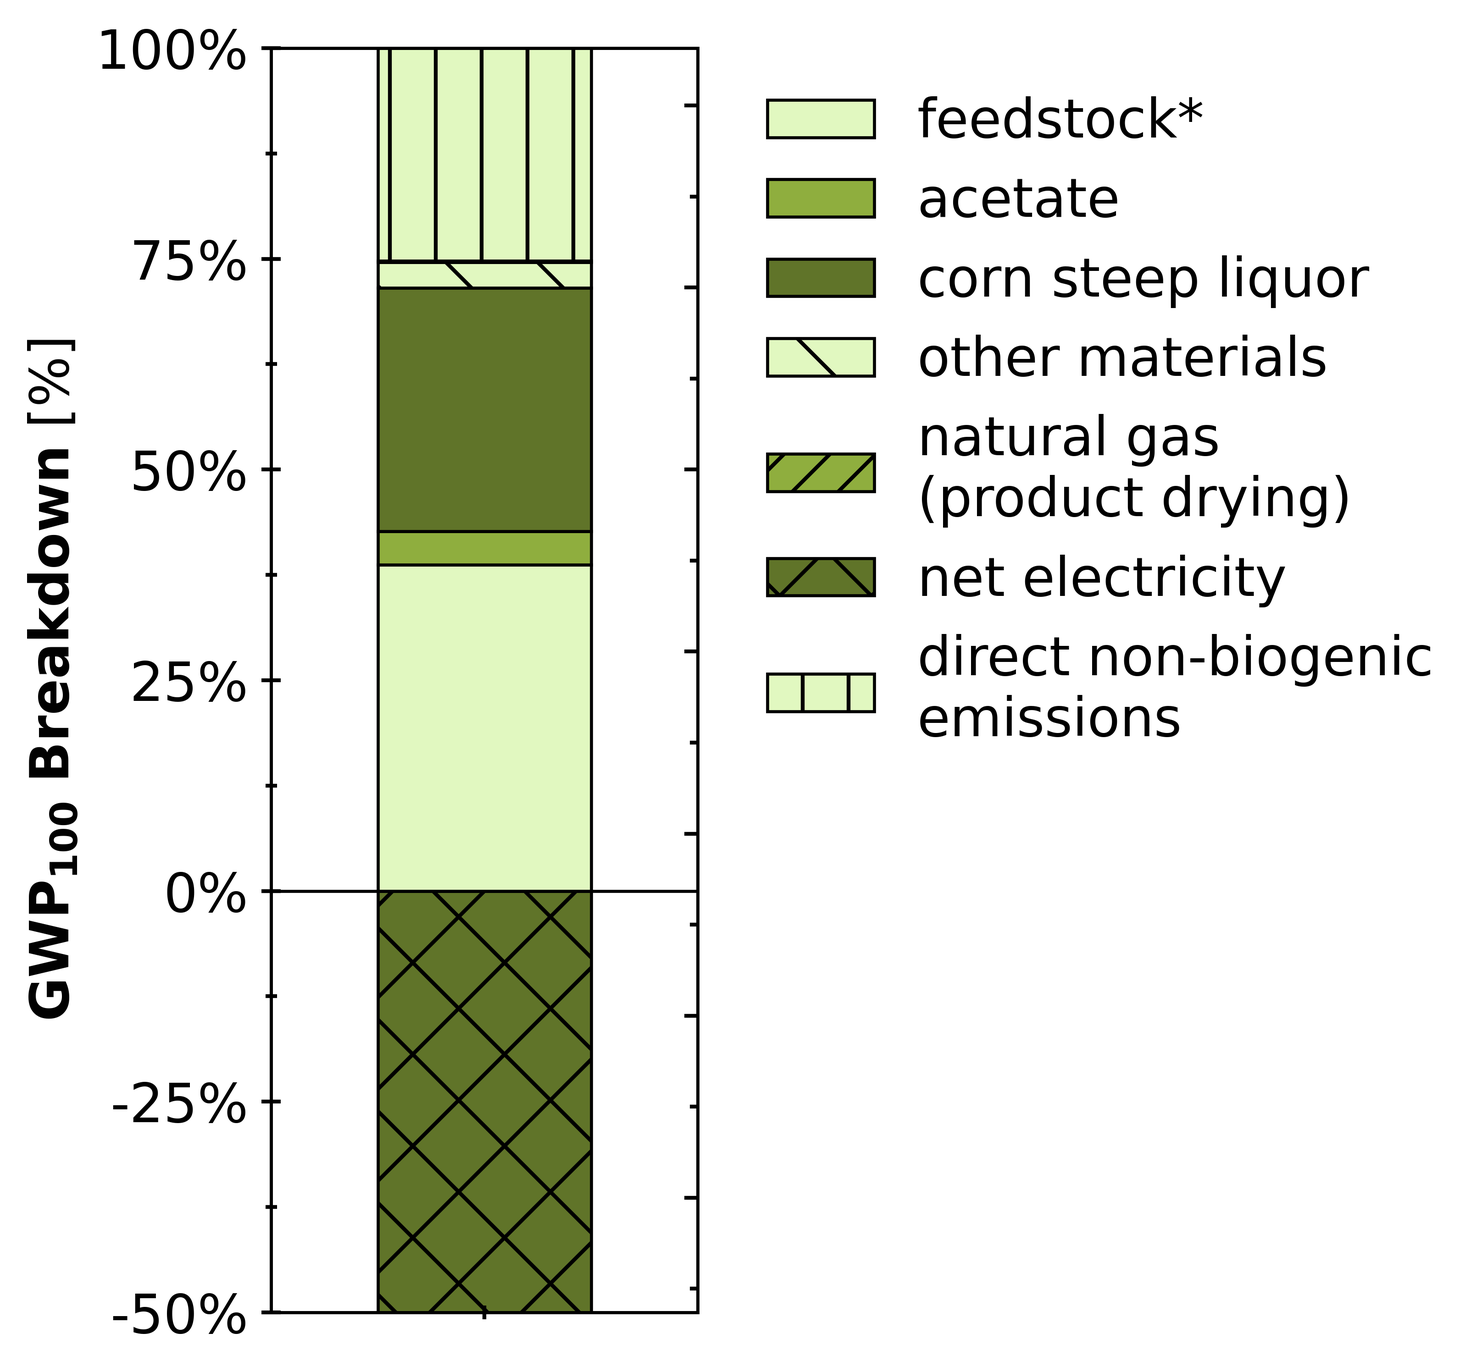
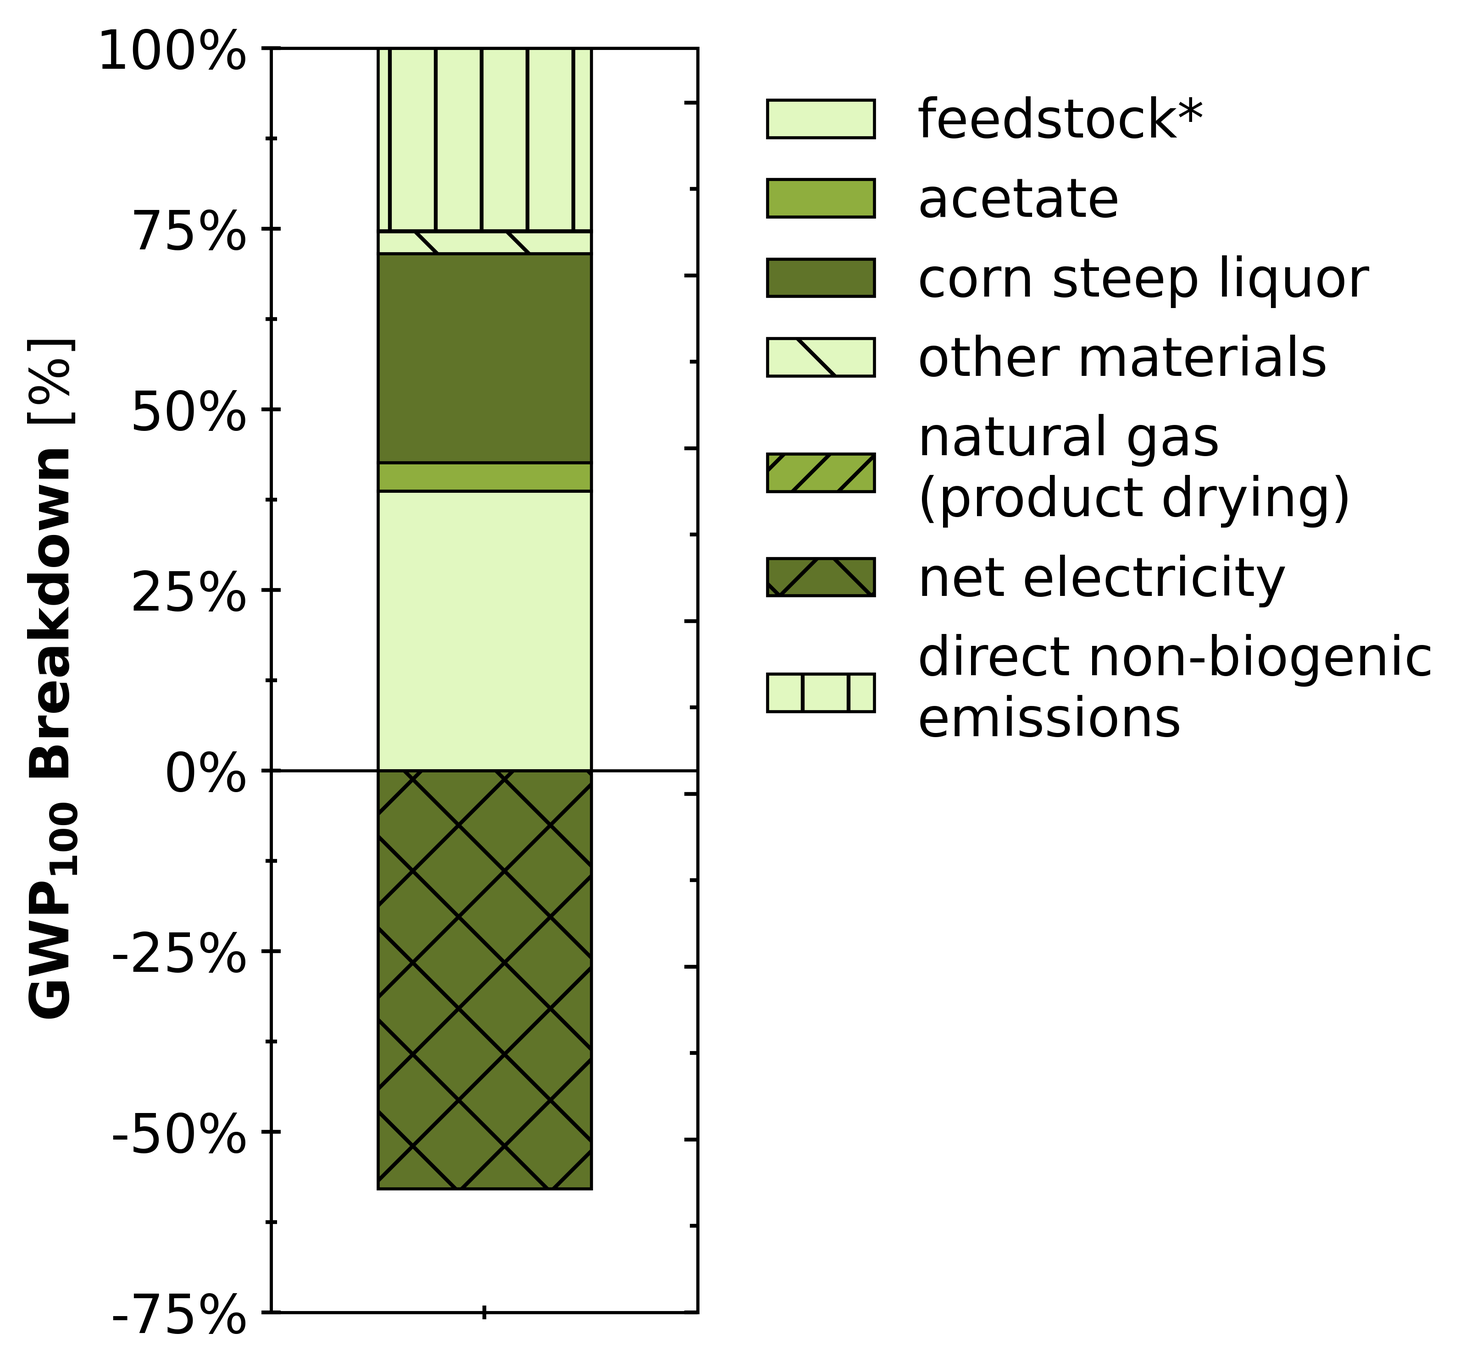
updates to TAL analyses and production capacities

diff --git a/biorefineries/TAL/analyses/decarboxylation/decarboxylation_TALconversion_PDreq_PDprice.py b/biorefineries/TAL/analyses/decarboxylation/decarboxylation_TALconversion_PDreq_PDprice.py
@@ -9,6 +9,9 @@ Created on Fri Jul 31 13:57:09 2020
 from warnings import filterwarnings
 filterwarnings('ignore')
 
+import contourplots
+get_rounded_str = contourplots.utils.get_rounded_str
+
 from biosteam.utils import  colors
 import numpy as np
 
@@ -36,12 +39,16 @@ ig = np.seterr(invalid='ignore')
 
 product = TAL_product
 
+
+# search page for high end: https://www.alibaba.com/trade/search?spm=a2700.galleryofferlist.0.0.2a995827YzqZVg&fsb=y&IndexArea=product_en&assessmentCompany=true&keywords=590-00-1+sorbate&productTag=1200000228&ta=y&tab=all&
 SA_market_range=np.array([
-                          6.45, # 2022 North America price from https://www.chemanalyst.com/Pricing-data/sorbic-acid-1402
-                          7.43, # 2019 North America price from Sorbic Acid Market, Transparency Market Research
+                          6.74, # 2019 global high end from Sorbic Acid Market, Transparency Market Research
+                          6.50 * 1.3397087, # $6.50/kg-potassium-sorbate from https://www.alibaba.com/product-detail/Lifecare-Supply-Potassium-Sorbate-High-Quality_1600897125355.html?spm=a2700.galleryofferlist.p_offer.d_title.1bc15827eAs1TL&s=p
                           ]) 
 
 TAL_maximum_viable_market_range = SA_market_range / theoretical_max_g_TAL_per_g_SA
+
+# TAL_maximum_viable_market_range = np.array([5.99, 7.74])
 
 s, u = flowsheet.stream, flowsheet.unit
 
@@ -128,18 +135,22 @@ TAL_metrics = [get_product_MPSP, lambda: TAL_lca.GWP, lambda: TAL_lca.FEC,
 
 # %% Generate 3-specification meshgrid and set specification loading functions
 
-steps = (30, 30, 10)
+steps = (50, 50, 3)
 
 # Yield, titer, productivity (rate)
 spec_1 = TAL_decarb_convs = np.linspace(0., 0.5, steps[0]) # yield
 spec_2 = PD_reqs = np.linspace(0., 2., steps[1]) # titer
 
 
-spec_3 = PD_prices =\
-    np.array([Acetylacetone_fresh.price])
+# spec_3 = PD_prices =\
+#     np.array([Acetylacetone_fresh.price])
     
+# spec_3 = PD_prices =\
+#     np.linspace(1e-5, 5., steps[2])
+
 spec_3 = PD_prices =\
-    np.linspace(1e-5, 5., steps[2])
+    np.array([Acetylacetone_fresh.price/5., Acetylacetone_fresh.price, Acetylacetone_fresh.price*5.])
+
 
 #%% Plot stuff
 
@@ -156,7 +167,7 @@ y_ticks = [0., 0.5, 1., 1.5, 2.]
 
 z_label = r"$\bfAcetylacetone$"  +" "+ r"$\bfPrice$"# # title of the z axis
 z_units =  r"$\mathrm{\$} \cdot \mathrm{kg}^{-1}$"
-z_ticks = [0, 1, 2, 3, 4, 5]
+z_ticks = [0, 2, 4, 6, 8, 10]
 
 # Metrics
 MPSP_w_label = r"$\bfMPSP$" # title of the color axis
@@ -370,7 +381,6 @@ print(f'Max HXN Q bal error was {round(max_HXN_qbal_percent_error, 3)} %.')
 
 #%% Plot metrics vs titer, yield, and productivity
 
-import contourplots
 chdir(TAL_results_filepath)
 
 results_metric_1 = np.array(results_metric_1)
@@ -468,9 +478,9 @@ print('\nCreating and saving contour plots ...\n')
 #%% MPSP
 
 # MPSP_w_levels, MPSP_w_ticks, MPSP_cbar_ticks = get_contour_info_from_metric_data(results_metric_1, lb=3)
-MPSP_w_levels = np.arange(2, 8.1, 0.2)
-MPSP_cbar_ticks = np.arange(2, 8.1, 1.)
-MPSP_w_ticks = [ 4, 4.5, 5, 8]
+MPSP_w_levels = np.arange(2, 10.1, 0.1)
+MPSP_cbar_ticks = np.arange(2, 10.1, 1.)
+MPSP_w_ticks = [3.25, 3.5, 3.75, 4, 4.5, 5, 10]
 # MPSP_w_levels = np.arange(0., 15.5, 0.5)
 
 contourplots.animated_contourplot(w_data_vs_x_y_at_multiple_z=results_metric_1, # shape = z * x * y # values of the metric you want to plot on the color axis; e.g., MPSP
@@ -492,7 +502,7 @@ contourplots.animated_contourplot(w_data_vs_x_y_at_multiple_z=results_metric_1, 
                                 z_units=z_units,
                                 w_units=MPSP_units,
                                 # fmt_clabel=lambda cvalue: r"$\mathrm{\$}$"+" {:.1f} ".format(cvalue)+r"$\cdot\mathrm{kg}^{-1}$", # format of contour labels
-                                fmt_clabel = lambda cvalue:  f"{round(cvalue,1)}",
+                                fmt_clabel = lambda cvalue:  get_rounded_str(cvalue, 3),
                                 cmap=CABBI_green_colormap(), # can use 'viridis' or other default matplotlib colormaps
                                 cmap_over_color = colors.grey_dark.shade(8).RGBn,
                                 extend_cmap='max',
@@ -516,8 +526,8 @@ contourplots.animated_contourplot(w_data_vs_x_y_at_multiple_z=results_metric_1, 
 #%% GWP
 
 # GWP_w_levels, GWP_w_ticks, GWP_cbar_ticks = get_contour_info_from_metric_data(results_metric_2,)
-GWP_w_levels = np.arange(0, 20, 0.4)
-GWP_cbar_ticks = np.arange(0, 20, 2.)
+GWP_w_levels = np.arange(0, 20.3, 0.4)
+GWP_cbar_ticks = np.arange(0, 20.3, 2.)
 GWP_w_ticks = [3, 4, 6, 10, 14, 20]
 contourplots.animated_contourplot(w_data_vs_x_y_at_multiple_z=results_metric_2, # shape = z * x * y # values of the metric you want to plot on the color axis; e.g., GWP
                                 x_data=100*TAL_decarb_convs, # x axis values
@@ -561,9 +571,9 @@ contourplots.animated_contourplot(w_data_vs_x_y_at_multiple_z=results_metric_2, 
 #%% FEC
 
 # FEC_w_levels, FEC_w_ticks, FEC_cbar_ticks = get_contour_info_from_metric_data(results_metric_3,)
-FEC_w_levels = np.arange(-40, 61, 2.)
-FEC_cbar_ticks = np.arange(-40, 61, 10)
-FEC_w_ticks = [-30, -20, 0, 25, 50]
+FEC_w_levels = np.arange(-100, 101, 2.)
+FEC_cbar_ticks = np.arange(-100, 101, 25)
+FEC_w_ticks = [-100, -25, 0, 25, 50, 75, 100]
 contourplots.animated_contourplot(w_data_vs_x_y_at_multiple_z=results_metric_3, # shape = z * x * y # values of the metric you want to plot on the color axis; e.g., FEC
                                 x_data=100*TAL_decarb_convs, # x axis values
                                 y_data=PD_reqs, # y axis values
@@ -583,7 +593,7 @@ contourplots.animated_contourplot(w_data_vs_x_y_at_multiple_z=results_metric_3, 
                                 w_units=FEC_units,
                                 # fmt_clabel=lambda cvalue: r"$\mathrm{\$}$"+" {:.1f} ".format(cvalue)+r"$\cdot\mathrm{kg}^{-1}$", # format of contour labels
                                 fmt_clabel = lambda cvalue:  f"{round(cvalue,1)}",
-                                cmap=CABBI_green_colormap(), # can use 'viridis' or other default matplotlib colormaps
+                                cmap=CABBI_green_colormap(120), # can use 'viridis' or other default matplotlib colormaps
                                 cmap_over_color = colors.grey_dark.shade(8).RGBn,
                                 extend_cmap='max',
                                 cbar_ticks=FEC_cbar_ticks,

diff --git a/biorefineries/TAL/analyses/fermentation/TRY_analysis_TAL.py b/biorefineries/TAL/analyses/fermentation/TRY_analysis_TAL.py
@@ -9,6 +9,9 @@ Created on Fri Jul 31 13:57:09 2020
 from warnings import filterwarnings
 filterwarnings('ignore')
 
+import contourplots
+get_rounded_str = contourplots.utils.get_rounded_str
+
 from biosteam.utils import  colors
 import numpy as np
 
@@ -36,14 +39,17 @@ ig = np.seterr(invalid='ignore')
 
 product = TAL_product
 
+# search page for high end: https://www.alibaba.com/trade/search?spm=a2700.galleryofferlist.0.0.2a995827YzqZVg&fsb=y&IndexArea=product_en&assessmentCompany=true&keywords=590-00-1+sorbate&productTag=1200000228&ta=y&tab=all&
 SA_market_range=np.array([
-                          6.45, # 2022 North America price from https://www.chemanalyst.com/Pricing-data/sorbic-acid-1402
-                          7.43, # 2019 North America price from Sorbic Acid Market, Transparency Market Research
+                          6.74, # 2019 global high end from Sorbic Acid Market, Transparency Market Research
+                          6.50 * 1.3397087, # $6.50/kg-potassium-sorbate from https://www.alibaba.com/product-detail/Lifecare-Supply-Potassium-Sorbate-High-Quality_1600897125355.html?spm=a2700.galleryofferlist.p_offer.d_title.1bc15827eAs1TL&s=p
                           ]) 
 
 TAL_maximum_viable_market_range = SA_market_range / theoretical_max_g_TAL_per_g_SA
 
-    
+# TAL_maximum_viable_market_range = np.array([5.99, 7.74])
+
+
 #%% Filepaths
 TAL_filepath = TAL.__file__.replace('\\__init__.py', '')
 
@@ -110,8 +116,13 @@ get_TAL_sugars_conc = lambda: sum(R302.outs[0].imass['Glucose', 'Xylose'])/R302.
 
 get_TAL_inhibitors_conc = lambda: 1000*sum(R302.outs[0].imass['AceticAcid', 'Furfural', 'HMF'])/R302.outs[0].F_vol
 
-TAL_metrics = [get_product_MPSP, lambda: TAL_lca.GWP, lambda: TAL_lca.FEC, 
-               get_TAL_AOC, get_TAL_FCI, get_product_purity]
+TAL_metrics = [get_product_MPSP, 
+               # lambda: TAL_lca.GWP
+               lambda: TAL_lca.GWP - TAL_lca.net_electricity_GWP, 
+               # lambda: TAL_lca.FEC, 
+               lambda: TAL_lca.FEC - TAL_lca.net_electricity_FEC,
+               get_TAL_AOC, get_TAL_FCI, 
+               get_product_purity]
 
 # %% Generate 3-specification meshgrid and set specification loading functions
 
@@ -353,7 +364,6 @@ print(f'Max HXN Q bal error was {round(max_HXN_qbal_percent_error, 3)} %.')
 
 #%% Plot metrics vs titer, yield, and productivity
 
-import contourplots
 chdir(TAL_results_filepath)
 
 results_metric_1 = np.array(results_metric_1)
@@ -453,7 +463,7 @@ print('\nCreating and saving contour plots ...\n')
 # MPSP_w_levels, MPSP_w_ticks, MPSP_cbar_ticks = get_contour_info_from_metric_data(results_metric_1, lb=3)
 MPSP_w_levels = np.arange(2, 10.1, 0.1)
 MPSP_cbar_ticks = np.arange(2, 10.1, 1.)
-MPSP_w_ticks = [3.5, 4, 4.5, 5, 10]
+MPSP_w_ticks = [3., 3.5, 3.75, 4, 4.5, 5, 10]
 # MPSP_w_levels = np.arange(0., 15.5, 0.5)
 
 contourplots.animated_contourplot(w_data_vs_x_y_at_multiple_z=results_metric_1, # shape = z * x * y # values of the metric you want to plot on the color axis; e.g., MPSP
@@ -475,7 +485,7 @@ contourplots.animated_contourplot(w_data_vs_x_y_at_multiple_z=results_metric_1, 
                                 z_units=z_units,
                                 w_units=MPSP_units,
                                 # fmt_clabel=lambda cvalue: r"$\mathrm{\$}$"+" {:.1f} ".format(cvalue)+r"$\cdot\mathrm{kg}^{-1}$", # format of contour labels
-                                fmt_clabel = lambda cvalue:  f"{round(cvalue,1)}",
+                                fmt_clabel = lambda cvalue: get_rounded_str(cvalue, 3),
                                 cmap=CABBI_green_colormap(), # can use 'viridis' or other default matplotlib colormaps
                                 cmap_over_color = colors.grey_dark.shade(8).RGBn,
                                 extend_cmap='max',
@@ -498,8 +508,8 @@ contourplots.animated_contourplot(w_data_vs_x_y_at_multiple_z=results_metric_1, 
 #%% GWP
 
 # GWP_w_levels, GWP_w_ticks, GWP_cbar_ticks = get_contour_info_from_metric_data(results_metric_2,)
-GWP_w_levels = np.arange(0, 20, 0.4)
-GWP_cbar_ticks = np.arange(0, 20, 2.)
+GWP_w_levels = np.arange(0, 20.1, 0.4)
+GWP_cbar_ticks = np.arange(0, 20.1, 2.)
 GWP_w_ticks = [2, 3, 4, 6, 10, 14, 20]
 contourplots.animated_contourplot(w_data_vs_x_y_at_multiple_z=results_metric_2, # shape = z * x * y # values of the metric you want to plot on the color axis; e.g., GWP
                                 x_data=100*yields, # x axis values
@@ -542,9 +552,9 @@ contourplots.animated_contourplot(w_data_vs_x_y_at_multiple_z=results_metric_2, 
 #%% FEC
 
 # FEC_w_levels, FEC_w_ticks, FEC_cbar_ticks = get_contour_info_from_metric_data(results_metric_3,)
-FEC_w_levels = np.arange(-40, 61, 2.)
-FEC_cbar_ticks = np.arange(-40, 61, 10)
-FEC_w_ticks = [-30, -20, 0, 25, 50]
+FEC_w_levels = np.arange(-300, 101, 10)
+FEC_cbar_ticks = np.arange(-300, 101, 20)
+FEC_w_ticks = [-100, -50, 0, 50, 100]
 contourplots.animated_contourplot(w_data_vs_x_y_at_multiple_z=results_metric_3, # shape = z * x * y # values of the metric you want to plot on the color axis; e.g., FEC
                                 x_data=100*yields, # x axis values
                                 y_data=titers, # y axis values
@@ -564,7 +574,7 @@ contourplots.animated_contourplot(w_data_vs_x_y_at_multiple_z=results_metric_3, 
                                 w_units=FEC_units,
                                 # fmt_clabel=lambda cvalue: r"$\mathrm{\$}$"+" {:.1f} ".format(cvalue)+r"$\cdot\mathrm{kg}^{-1}$", # format of contour labels
                                 fmt_clabel = lambda cvalue:  f"{round(cvalue,1)}",
-                                cmap=CABBI_green_colormap(), # can use 'viridis' or other default matplotlib colormaps
+                                cmap=CABBI_green_colormap(200), # can use 'viridis' or other default matplotlib colormaps
                                 cmap_over_color = colors.grey_dark.shade(8).RGBn,
                                 extend_cmap='max',
                                 cbar_ticks=FEC_cbar_ticks,

diff --git a/biorefineries/TAL/systems/system_SA_solubility_exploit_ethanol_sugarcane.py b/biorefineries/TAL/systems/system_SA_solubility_exploit_ethanol_sugarcane.py
@@ -475,9 +475,10 @@ g_sodium_acetate_to_g_acetic_acid = TAL_chemicals.AceticAcid.MW/TAL_chemicals.So
 fermentation_yield_baseline = 35.9/(180.*theoretical_max_g_TAL_per_g_glucose+13.7*g_sodium_acetate_to_g_acetic_acid*theoretical_max_g_TAL_per_g_acetic_acid) # from Markham et al. 2018; 35.9 g-TAL/L from 180 g-glucose/L and 13.7 g-sodium_acetate/L
 # fermentation_yield_upper_limit = 0.203/theoretical_max_g_TAL_per_g_glucose
 
-# desired_annual_production = (27_296/2) * theoretical_max_g_TAL_per_g_SA # pure metric ton / y # satisfy 50% of 2019 North American demand for sobic acid with 100% TAL->sorbic acid conversion
 
-desired_annual_production = 27_296/2 # pure metric ton / y # satisfy 50% of 2019 North American demand for sobic acid
+desired_annual_production = (23_802/2) * TAL_chemicals.PotassiumSorbate.MW/TAL_chemicals.SorbicAcid.MW # pure metric ton / y # satisfy 50% of 2019 US demand for sobic acid
+
+# desired_annual_production = (23_802) * TAL_chemicals.PotassiumSorbate.MW/TAL_chemicals.SorbicAcid.MW # pure metric ton / y # satisfy 100% of 2019 US demand for sobic acid
 
 spec = ProcessSpecification(
     evaporator = u.F301,
@@ -576,18 +577,18 @@ def simulate_and_print():
     # set_production_capacity(25000, 'analytical')
     print('\n---------- Simulation Results ----------')
     MPSP_KSA = get_KSA_MPSP()
-    print(f'MPSP is ${MPSP_KSA:.3f}/kg TAL')
+    print(f'MPSP is ${MPSP_KSA:.3f}/kg PotassiumSorbate')
     print(f'.... or ${MPSP_KSA*per_kg_KSA_to_per_kg_SA:.3f}/kg SorbicAcid')
     GWP_KSA, FEC_KSA = TAL_lca.GWP, TAL_lca.FEC
-    print(f'GWP-100a is {GWP_KSA:.3f} kg CO2-eq/kg TAL')
+    print(f'GWP-100a is {GWP_KSA:.3f} kg CO2-eq/kg PotassiumSorbate')
     print(f'........ or {GWP_KSA*per_kg_KSA_to_per_kg_SA:.3f} kg CO2-eq/kg SorbicAcid')
-    print(f'FEC is {FEC_KSA:.3f} MJ/kg TAL')
+    print(f'FEC is {FEC_KSA:.3f} MJ/kg PotassiumSorbate')
     print(f'... or {FEC_KSA*per_kg_KSA_to_per_kg_SA:.3f} MJ/kg SorbicAcid')
     GWP_KSA_without_electricity_credit, FEC_KSA_without_electricity_credit =\
         GWP_KSA - TAL_lca.net_electricity_GWP, FEC_KSA - TAL_lca.net_electricity_FEC
-    print(f'GWP-100a without electricity credit is {GWP_KSA_without_electricity_credit:.3f} kg CO2-eq/kg TAL')
+    print(f'GWP-100a without electricity credit is {GWP_KSA_without_electricity_credit:.3f} kg CO2-eq/kg PotassiumSorbate')
     # print(f'................................... or {GWP_KSA_without_electricity_credit*per_kg_KSA_to_per_kg_SA:.3f} kg CO2-eq/kg SorbicAcid')
-    print(f'FEC without electricity credit is {FEC_KSA_without_electricity_credit:.3f} MJ/kg TAL')
+    print(f'FEC without electricity credit is {FEC_KSA_without_electricity_credit:.3f} MJ/kg PotassiumSorbate')
     print(f'.............................. or {FEC_KSA_without_electricity_credit*per_kg_KSA_to_per_kg_SA:.3f} MJ/kg SorbicAcid')
     # print(f'FEC is {get_FEC():.2f} MJ/kg TAL or {get_FEC()/TAL_LHV:.2f} MJ/MJ TAL')
     # print(f'SPED is {get_SPED():.2f} MJ/kg TAL or {get_SPED()/TAL_LHV:.2f} MJ/MJ TAL')

diff --git a/biorefineries/TAL/analyses/full/1_uncertainties_TAL_solubility_exploit.py b/biorefineries/TAL/analyses/full/1_uncertainties_TAL_solubility_exploit.py
@@ -298,7 +298,18 @@ file_to_save = TAL_results_filepath+\
 MPSP_uncertainty = [results_dict['Uncertainty']['MPSP'][mode]
                     for mode in modes
                     ]
-market_range = [5.735, 6.606]
+
+# # search page for high end: https://www.alibaba.com/trade/search?spm=a2700.galleryofferlist.0.0.2a995827YzqZVg&fsb=y&IndexArea=product_en&assessmentCompany=true&keywords=590-00-1+sorbate&productTag=1200000228&ta=y&tab=all&
+# SA_market_range=np.array([
+#                           6.74, # 2019 global high end from Sorbic Acid Market, Transparency Market Research
+#                           6.50 * 1.3397087, # $6.50/kg-potassium-sorbate from https://www.alibaba.com/product-detail/Lifecare-Supply-Potassium-Sorbate-High-Quality_1600897125355.html?spm=a2700.galleryofferlist.p_offer.d_title.1bc15827eAs1TL&s=p
+#                           ]) 
+
+# TAL_maximum_viable_market_range = SA_market_range / theoretical_max_g_TAL_per_g_SA
+
+market_range = np.array([5.99, 7.74])
+
+
 # biobased_lit_MPSP_range = (1.08, 3.63)
 contourplots.box_and_whiskers_plot(uncertainty_data=MPSP_uncertainty, 
                           baseline_values=[results_dict['Baseline']['MPSP'][mode] for mode in modes],
@@ -404,7 +415,7 @@ contourplots.box_and_whiskers_plot(uncertainty_data=FEC_uncertainty,
                           x_tick_wrap_width=6,
                           y_label=r"$\bfFEC$",
                           y_units=FEC_units,
-                          y_ticks=np.arange(-50, 60., 10.),
+                          y_ticks=np.arange(-80, 21, 10),
                           save_file=True,
                           # fig_height=5.5,
                           # fig_width = 3.,
@@ -512,7 +523,7 @@ df_GWP_breakdown = pd.DataFrame(GWP_breakdown_list,
 df_GWP_breakdown = df_GWP_breakdown.rename(columns={0: ''})
 contourplots.stacked_bar_plot(dataframe=df_GWP_breakdown, 
                   # y_ticks=[-60, -40, -20, 0, 20, 40, 60, 80, 100], 
-                  y_ticks = [-50, -25, 0, 25, 50, 75, 100],
+                  y_ticks = [-75, -50, -25, 0, 25, 50, 75, 100],
                   # y_ticks=[-400, -300, -200, -100, 0, 100, 200, 300, 400], 
                   # y_ticks = []
                   # y_label=r"$\bfGWP-100a $" +" "+ r"$\bfBreakdown$",  
@@ -543,7 +554,7 @@ df_FEC_breakdown = pd.DataFrame(FEC_breakdown_list,
 df_FEC_breakdown = df_FEC_breakdown.rename(columns={0: ''})
 contourplots.stacked_bar_plot(dataframe=df_FEC_breakdown, 
                   # y_ticks=[-200, -175, -150, -125, -100, -75, -50, -25, 0, 25, 50, 75, 100, 125, 150, 175], 
-                   y_ticks=[-125, -100, -75, -50, -25, 0, 25, 50, 75, 100], 
+                   y_ticks=[-150, -125, -100, -75, -50, -25, 0, 25, 50, 75, 100], 
                   # y_ticks=[-150, -100, -50, 0, 50, 100], 
                   y_label=r"$\bfFEC$" +" "+ r"$\bfBreakdown$", 
                   y_units = "%", 

diff --git a/biorefineries/TAL/systems/system_TAL_solubility_exploit_ethanol_sugarcane.py b/biorefineries/TAL/systems/system_TAL_solubility_exploit_ethanol_sugarcane.py
@@ -475,7 +475,9 @@ g_sodium_acetate_to_g_acetic_acid = TAL_chemicals.AceticAcid.MW/TAL_chemicals.So
 fermentation_yield_baseline = 35.9/(180.*theoretical_max_g_TAL_per_g_glucose+13.7*g_sodium_acetate_to_g_acetic_acid*theoretical_max_g_TAL_per_g_acetic_acid) # from Markham et al. 2018; 35.9 g-TAL/L from 180 g-glucose/L and 13.7 g-sodium_acetate/L
 # fermentation_yield_upper_limit = 0.203/theoretical_max_g_TAL_per_g_glucose
 
-desired_annual_production = (27_296/2) * theoretical_max_g_TAL_per_g_SA # pure metric ton / y # satisfy 50% of 2019 North American demand for sobic acid with 100% TAL->sorbic acid conversion
+desired_annual_production = (23_802/2) * theoretical_max_g_TAL_per_g_SA # pure metric ton / y # satisfy 50% of 2019 US demand for sobic acid with 100% TAL->sorbic acid conversion
+
+# desired_annual_production = (23_802) * theoretical_max_g_TAL_per_g_SA # pure metric ton / y # satisfy 100% of 2019 US demand for sobic acid with 100% TAL->sorbic acid conversion
 
 spec = ProcessSpecification(
     evaporator = u.F301,
@@ -595,9 +597,12 @@ def simulate_and_print():
 # TAL_sys.simulate()
 get_TAL_MPSP()
 
-#%% Misc. adsorption stuff
-# u.AC401.cycle_time = 4.
-# u.AC401.drying_time = 0.5 #!!! Drying time is updated to this value (overwritten the value passed during initialization)
+#%% Misc.
+
+def get_non_gaseous_waste_carbon_as_fraction_of_TAL_GWP100():
+    return sum([i.get_atomic_flow('C') for i in TAL_sys.products if i.F_mol 
+                and ('l' in i.phases or 's' in i.phases or i.phase=='l') 
+                and (not i==TAL_product)])/TAL_product.imass['TAL']/TAL_lca.GWP
 
 #%% Load specifications
 spec.load_specifications(spec.baseline_yield, spec.baseline_titer, spec.baseline_productivity)

diff --git a/biorefineries/TAL/process_settings.py b/biorefineries/TAL/process_settings.py
@@ -20,7 +20,8 @@ import biosteam as bst
 import thermosteam as tmo
 from biorefineries.TAL.chemicals_data import chems
 
-bst.CE = 607.5 # year 2022
+bst.CE = 607.5 # year 2019
+
 _kg_per_ton = 907.18474
 _lb_per_kg = 2.20462
 _liter_per_gallon = 3.78541
@@ -48,7 +49,7 @@ chem_index = { # Dictionary of chemical indices
                     2016: 88.8,
                     2017: 92.7,
                     2018: 93.3,
-                    2019: 97.0,
+                    2019: 97.0, # the TEA year for the 2023 TAL production study
                     2020: 100.2,
                     2021: 112.0,
                     2022: 125.829,
@@ -205,7 +206,8 @@ sodium_acetate_price = acetic_acid_price # unused
 CSL_price = 0.0339 * _lb_per_kg * chem_index[2019]/chem_index[2016] # from lactic acid paper
 amberlyst70_price = 30. #!!!
 
-acetylacetone_price = 1.5 # 2,4-pentanedione or acetylacetone
+# 2.0/kg from https://www.alibaba.com/product-detail/Desiccant-for-paints-and-varnishes-Acetylacetone_10000004008185.html?spm=a2700.galleryofferlist.normal_offer.d_price.e82458eazJeqeC
+acetylacetone_price = 2.0 # 2,4-pentanedione or acetylacetone
 
 price = {'SA': SA_price,
          'PD': acetylacetone_price, # 2,4-pentanedione or acetylacetone
